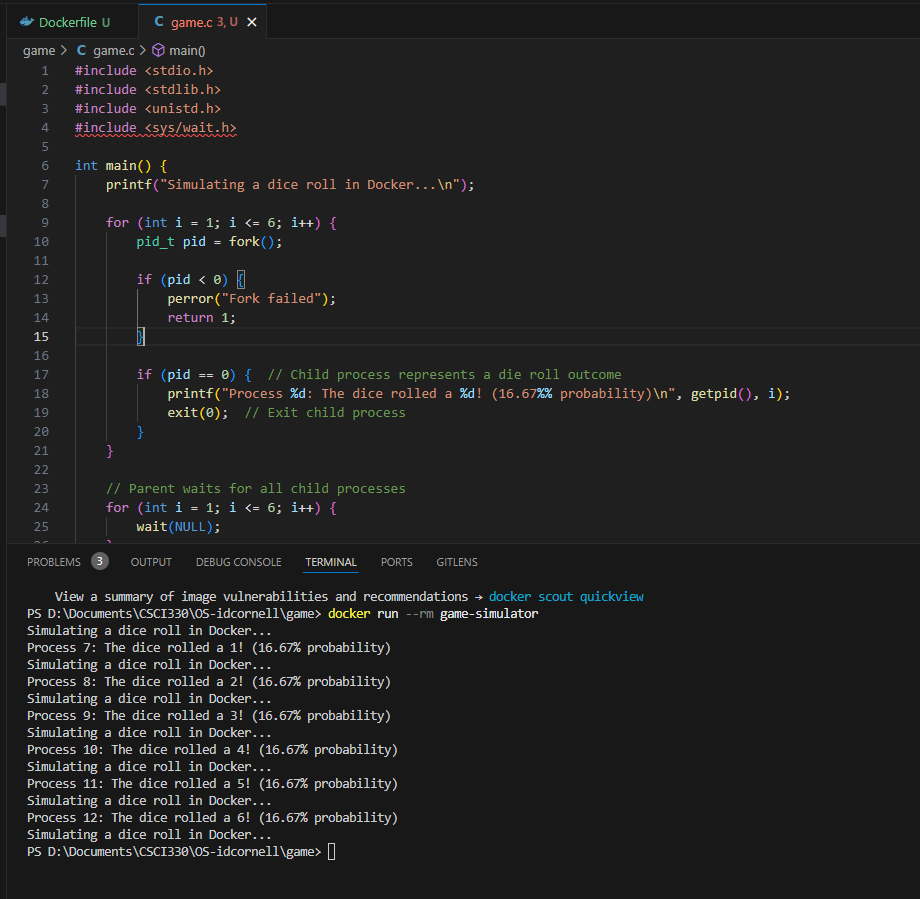
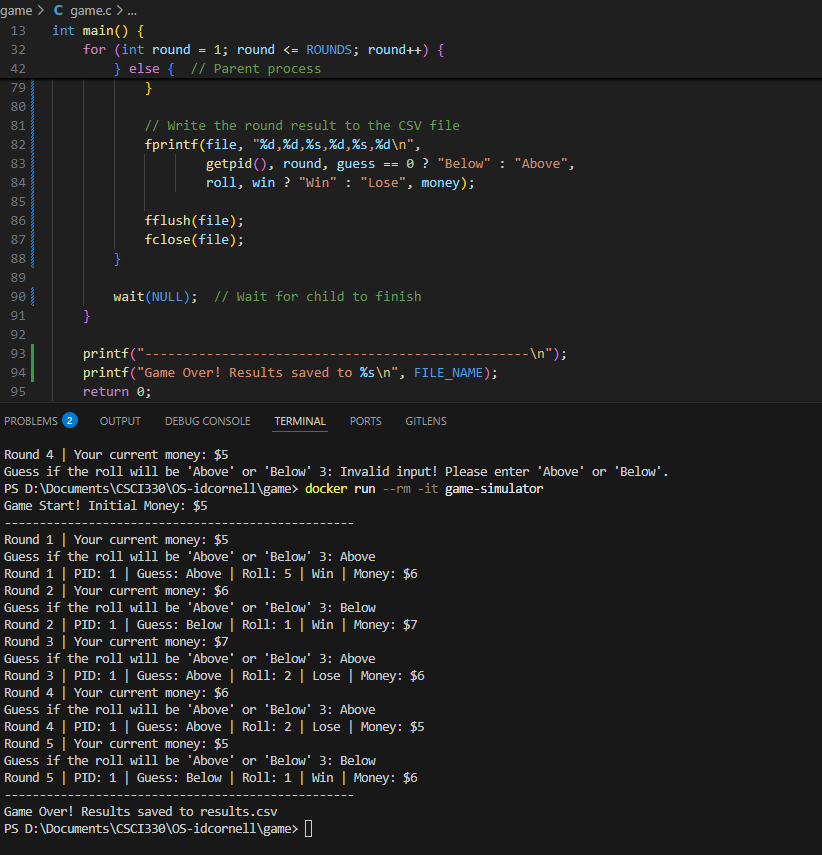
game updates

diff --git a/game/game.c b/game/game.c
@@ -1,12 +1,35 @@
 #include <stdio.h>
 #include <stdlib.h>
 #include <unistd.h>
-//#include <sys/wait.h>
+#include <sys/types.h>
+#include <sys/wait.h>
+#include <time.h>
+#include <string.h>  // Include string.h
+
+#define FILE_NAME "results.csv"
+#define START_MONEY 5
+#define ROUNDS 5  // Number of rounds to play
 
 int main() {
-    printf("Simulating a dice roll in Docker...\n");
+    int money = START_MONEY;
+    char guess_input[10];
 
-    for (int i = 1; i <= 6; i++) {
+    // Seed random number generator
+    srand(time(NULL) ^ getpid());
+
+    // Open file in write mode to create and write the header
+    FILE *file = fopen(FILE_NAME, "w");
+    if (file == NULL) {
+        perror("Error opening file");
+        return 1;
+    }
+    fprintf(file, "Process ID,Round,Guess,Roll,Outcome,Money\n");
+    fclose(file);  // Close the file to prevent issues in child processes
+
+    printf("Game Start! Initial Money: $%d\n", money);
+    printf("--------------------------------------------------\n");
+
+    for (int round = 1; round <= ROUNDS; round++) {
         pid_t pid = fork();
 
         if (pid < 0) {
@@ -14,16 +37,60 @@ int main() {
             return 1;
         }
 
-        if (pid == 0) {  // Child process represents a die roll outcome
-            printf("Process %d: The dice rolled a %d! (16.67%% probability)\n", getpid(), i);
-            exit(0);  // Exit child process
+        if (pid == 0) {  // Child process
+            exit(0); // Child does nothing
+        } else {  // Parent process
+            // Prompt the user for input
+            printf("Round %d | Your current money: $%d\n", round, money);
+            printf("Guess if the roll will be 'Above' or 'Below' 3: ");
+            fgets(guess_input, 10, stdin);  // Read user input
+
+            // Check if the user input is valid
+            int guess = -1;
+            if (strncmp(guess_input, "Above", 5) == 0) {
+                guess = 1;  // Above
+            } else if (strncmp(guess_input, "Below", 5) == 0) {
+                guess = 0;  // Below
+            } else {
+                printf("Invalid input! Please enter 'Above' or 'Below'.\n");
+                continue;  // Skip the current round
+            }
+
+            // Roll a random number between 1 and 6
+            int roll = (rand() % 6) + 1;
+            int win = (guess == 0 && roll < 3) || (guess == 1 && roll > 3);
+
+            if (win) {
+                money += 1;
+            } else {
+                money -= 1;
+            }
+
+            // Print results to screen
+            printf("Round %d | PID: %d | Guess: %s | Roll: %d | %s | Money: $%d\n",
+                   round, getpid(), guess == 0 ? "Below" : "Above",
+                   roll, win ? "Win" : "Lose", money);
+
+            // Open file in append mode to add round results
+            FILE *file = fopen(FILE_NAME, "a");
+            if (file == NULL) {
+                perror("Error opening file");
+                exit(1);
+            }
+
+            // Write the round result to the CSV file
+            fprintf(file, "%d,%d,%s,%d,%s,%d\n",
+                    getpid(), round, guess == 0 ? "Below" : "Above",
+                    roll, win ? "Win" : "Lose", money);
+
+            fflush(file);
+            fclose(file);
         }
+
+        wait(NULL);  // Wait for child to finish
     }
 
-    // Parent waits for all child processes
-    for (int i = 1; i <= 6; i++) {
-        wait(NULL);
-    }
-
+    printf("--------------------------------------------------\n");
+    printf("Game Over! Results saved to %s\n", FILE_NAME);
     return 0;
 }
